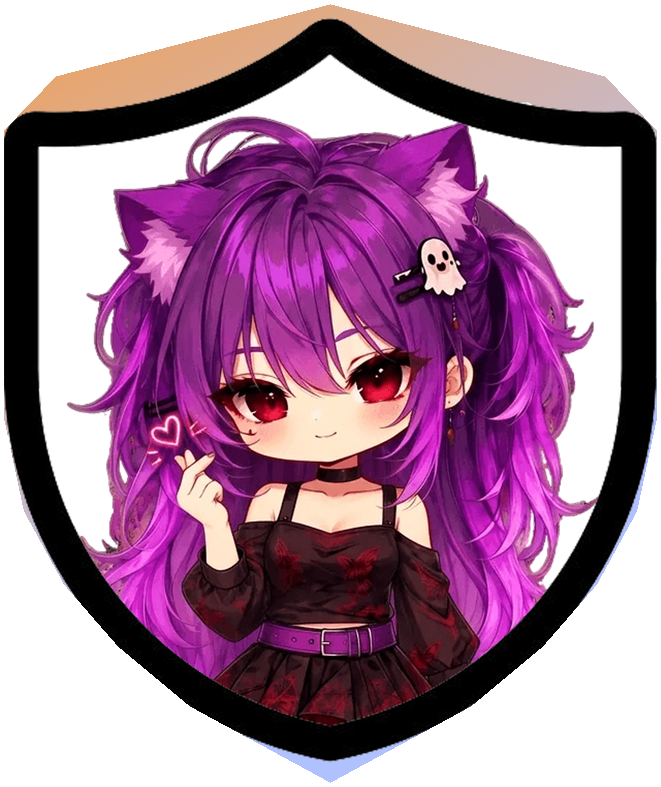
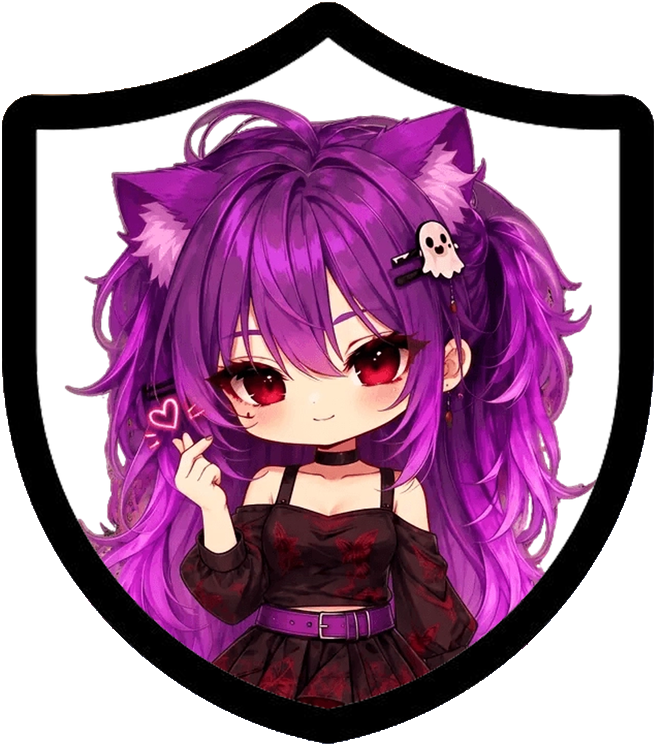
Restore branded auth background rendering

diff --git a/src/screens/auth/LoginScreen.tsx b/src/screens/auth/LoginScreen.tsx
@@ -1,6 +1,6 @@
 import { BrandName } from "../../components/BrandName";
 import React, { useState } from "react";
-import { Image, ImageBackground, Pressable, StyleSheet, Text, View } from "react-native";
+import { Image, Pressable, StyleSheet, Text, View } from "react-native";
 import { useNavigation } from "@react-navigation/native";
 import { useSafeAreaInsets } from "react-native-safe-area-context";
 import { StatusBar } from "expo-status-bar";
@@ -8,7 +8,7 @@ import { Button, ErrorText, Input, PasswordInput } from "../../components/UI";
 import { AuthIcon } from "../../components/AuthIcon";
 import { KeyboardScrollView } from "../../components/KeyboardForm";
 import { useApp } from "../../context";
-import { colors, typo, useTheme, BRAND_PURPLE } from "../../theme";
+import { colors, typo, useTheme } from "../../theme";
 
 export default function LoginScreen() {
   useTheme();
@@ -66,12 +66,13 @@ export default function LoginScreen() {
     <>
       <StatusBar hidden />
       <KeyboardScrollView style={styles.flex} contentContainerStyle={{ flexGrow: 1 }}>
-      <ImageBackground source={require("../../../assets/auth-background.jpg")} style={styles.background} resizeMode="cover">
+      <View style={styles.background}>
+        <Image source={require("../../../assets/auth-background.jpg")} style={styles.backgroundImage} resizeMode="cover" />
         <View pointerEvents="none" style={styles.backgroundShade} />
         <View style={[styles.screen, { paddingTop: 58, paddingBottom: insets.bottom + 20 }]}>
         <View style={styles.brand}>
           <Image source={{ uri: "auth_icon" }} style={styles.logo} resizeMode="contain" />
-          <BrandName style={styles.brandName} solidColor={BRAND_PURPLE} />
+          <BrandName style={styles.brandName} solidColor="#FFFFFF" />
           <Text style={styles.brandSub}>Ваш приватный доступ в интернет</Text>
         </View>
 
@@ -185,7 +186,7 @@ export default function LoginScreen() {
           </View>
         </View>
       </View>
-      </ImageBackground>
+      </View>
     </KeyboardScrollView>
     </>
   );
@@ -194,17 +195,18 @@ export default function LoginScreen() {
 const makeStyles = () => StyleSheet.create({
   flex: { flex: 1, backgroundColor: colors.bg },
   background: { flex: 1, backgroundColor: colors.bg },
+  backgroundImage: { position: "absolute", top: 0, right: 0, bottom: 0, left: 0 },
   backgroundShade: { position: "absolute", top: 0, right: 0, bottom: 0, left: 0, backgroundColor: "rgba(8, 5, 24, 0.48)" },
   screen: {
     flexGrow: 1,
     backgroundColor: "transparent",
     paddingHorizontal: 20,
   },
-  brand: { alignItems: "center", marginTop: 8, marginBottom: 8 },
+  brand: { alignItems: "center", marginTop: 270, marginBottom: 8 },
   logo: {
-    width: 72,
-    height: 72,
-    marginBottom: 8,
+    width: 64,
+    height: 76,
+    marginBottom: 0,
   },
   brandName: {
     color: colors.text,
